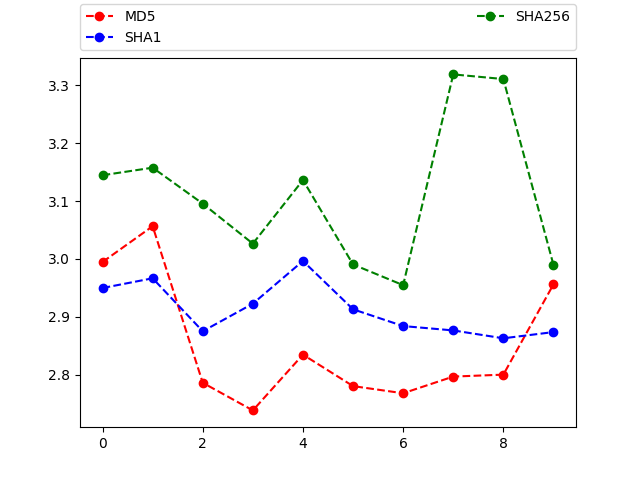
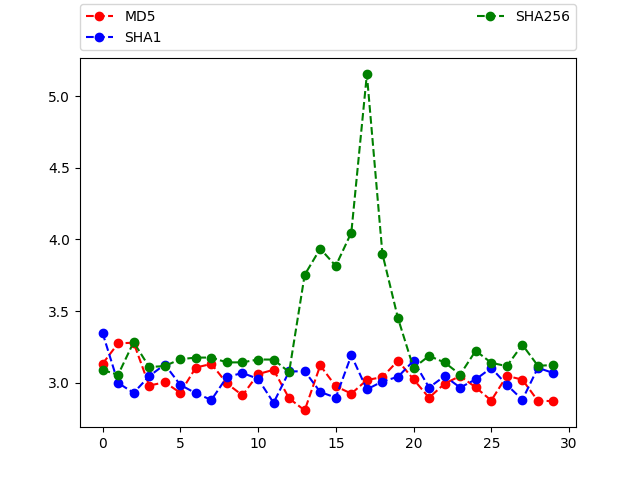
updating

diff --git a/report.py b/report.py
@@ -1,3 +1,4 @@
+# coding=utf-8
 from PasswordBase.base_reader import decrypt_base_password, read_password_base
 from PasswordBase.base_writer import writeNewBase
 from PasswordConvertion.convertion import encrypt_to_sha256, encrypt_to_sha1, encrypt_to_md5
@@ -8,74 +9,63 @@ import matplotlib.pyplot as plt
 base_file_path = './PasswordBase/'
 
 
-def countTime(hashName, converstionFunc):
+def count_time(hash_name, converstion_func):
     start_time = time.time()
     base_list = read_password_base(base_file_path + 'base.txt')
     list = decrypt_base_password(base_list)
-    convert_list(list, converstionFunc, hashName)
+    convert_list(list, converstion_func, hash_name)
     timeUsed = (time.time() - start_time)
-    # print("TIMEUSED %s --- %s seconds ---" % (hashName, timeUsed))
     return timeUsed
 
+times = 50
 
-def convert_list(list, convertionFunc, hashName):
+def convert_list(list, convertion_func, hash_hame):
     for line in list:
-        line[1] = convertionFunc(line[1])
-    writeNewBase(base_file_path + 'base_' + hashName + '.txt', list)
+        line[1] = convertion_func(line[1])
+    writeNewBase(base_file_path + 'base_' + hash_hame + '.txt', list)
 
 
 def reportMD5():
     md5Times = []
-    for x in range(0, 10):
-        md5Times.append(countTime('md5', encrypt_to_md5))
+    for x in range(0, times):
+        md5Times.append(count_time('md5', encrypt_to_md5))
 
     report('MD5', md5Times)
-    # print md5Times
-    # mean = np.average(md5Times)
-    # print("Mean %s --- %s seconds ---" % ('md5', mean))
     return md5Times
 
 
 def reportSHA1():
     sha1Times = []
-    for x in range(0, 10):
-        sha1Times.append(countTime('sha1', encrypt_to_sha1))
+    for x in range(0, times):
+        sha1Times.append(count_time('sha1', encrypt_to_sha1))
 
     report('SHA1', sha1Times)
-    # print md5Times
-    # mean = np.average(sha1Times)
-    # print mean
-    # print("Mean %s --- %s seconds ---" % ('sha1', mean))
     return sha1Times
 
 
 def reportSHA256():
     sha256Times = []
-    for x in range(0, 10):
-        sha256Times.append(countTime('sha256', encrypt_to_sha256))
+    for x in range(0, times):
+        sha256Times.append(count_time('sha256', encrypt_to_sha256))
 
     report('SHA256', sha256Times)
     return sha256Times
 
 
 def report(name, array):
-    mean = np.average(array)
-    min = np.amin(array)
-    max = np.amax(array)
     var = np.var(array)
-    dp = np.sqrt(var)
 
-    print("Mean %s --- %s seconds ---" % (name, mean))
-    print("Min %s --- %s seconds ---" % (name, min))
-    print("Max %s --- %s seconds ---" % (name, max))
+    print("Mean %s --- %s seconds ---" % (name, np.average(array)))
+    print("Min %s --- %s seconds ---" % (name, np.amin(array)))
+    print("Max %s --- %s seconds ---" % (name, np.amax(array)))
     print("Var %s --- %s seconds ---" % (name, var))
-    print("DP %s --- %s seconds ---" % (name, dp))
+    print("DP %s --- %s seconds ---" % (name, np.sqrt(var)))
 
 
 def ploting(x1, x2, x3):
-    plt.plot(x1, 'r--',  marker='o', label='MD5')
-    plt.plot(x2, 'b--',  marker='o', label='SHA1')
-    plt.plot(x3, 'g--',  marker='o', label='SHA256')
+    plt.plot(x1, 'r--', label='MD5')
+    plt.plot(x2, 'b--', label='SHA1')
+    plt.plot(x3, 'g--',  label='SHA256')
 
     plt.legend(bbox_to_anchor=(0., 1.02, 1., .102), loc=3,
                ncol=2, mode="expand", borderaxespad=0.)
@@ -90,5 +80,3 @@ x2 = reportSHA1()
 x3 = reportSHA256()
 
 ploting(x1, x2, x3)
-
-# http://stackoverflow.com/questions/20412038/printing-python-code-to-pdf OLHAR
